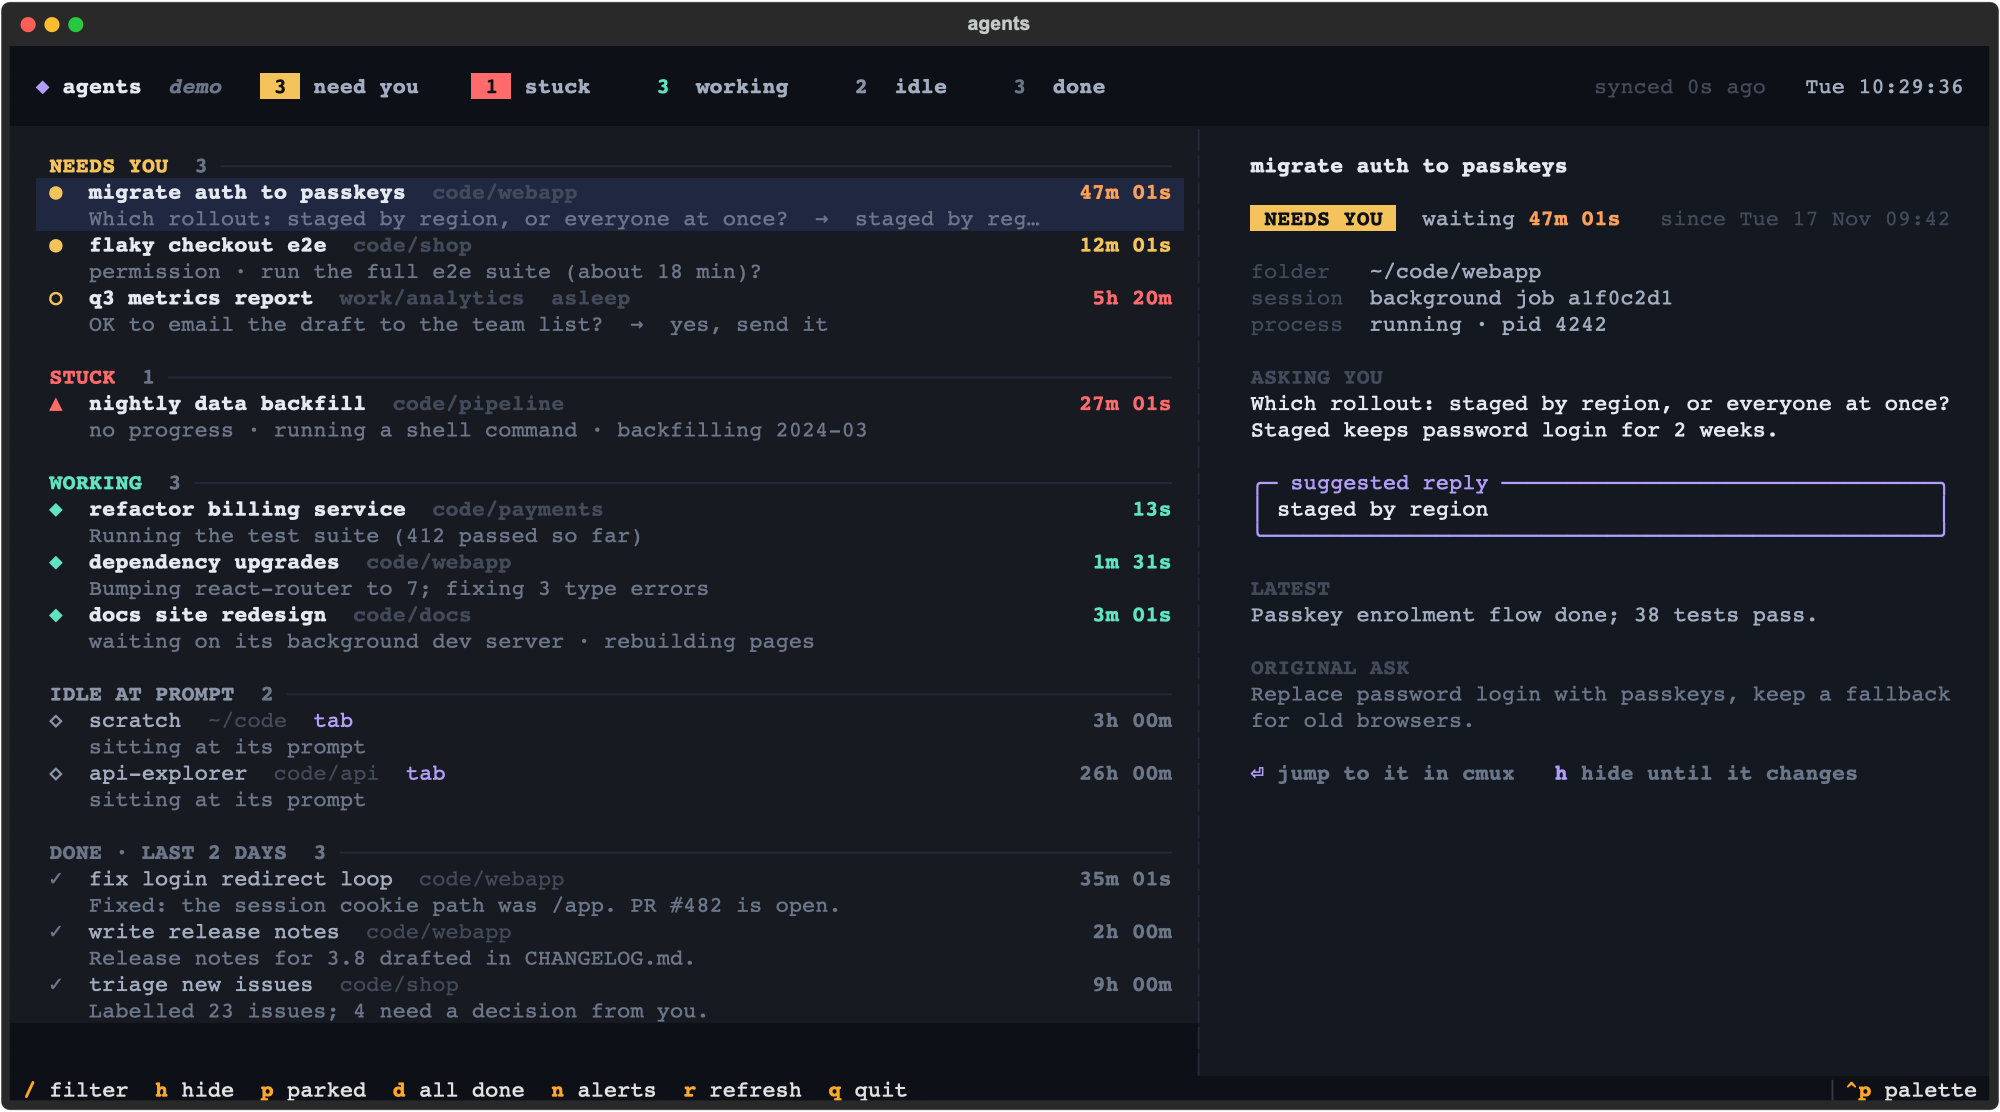
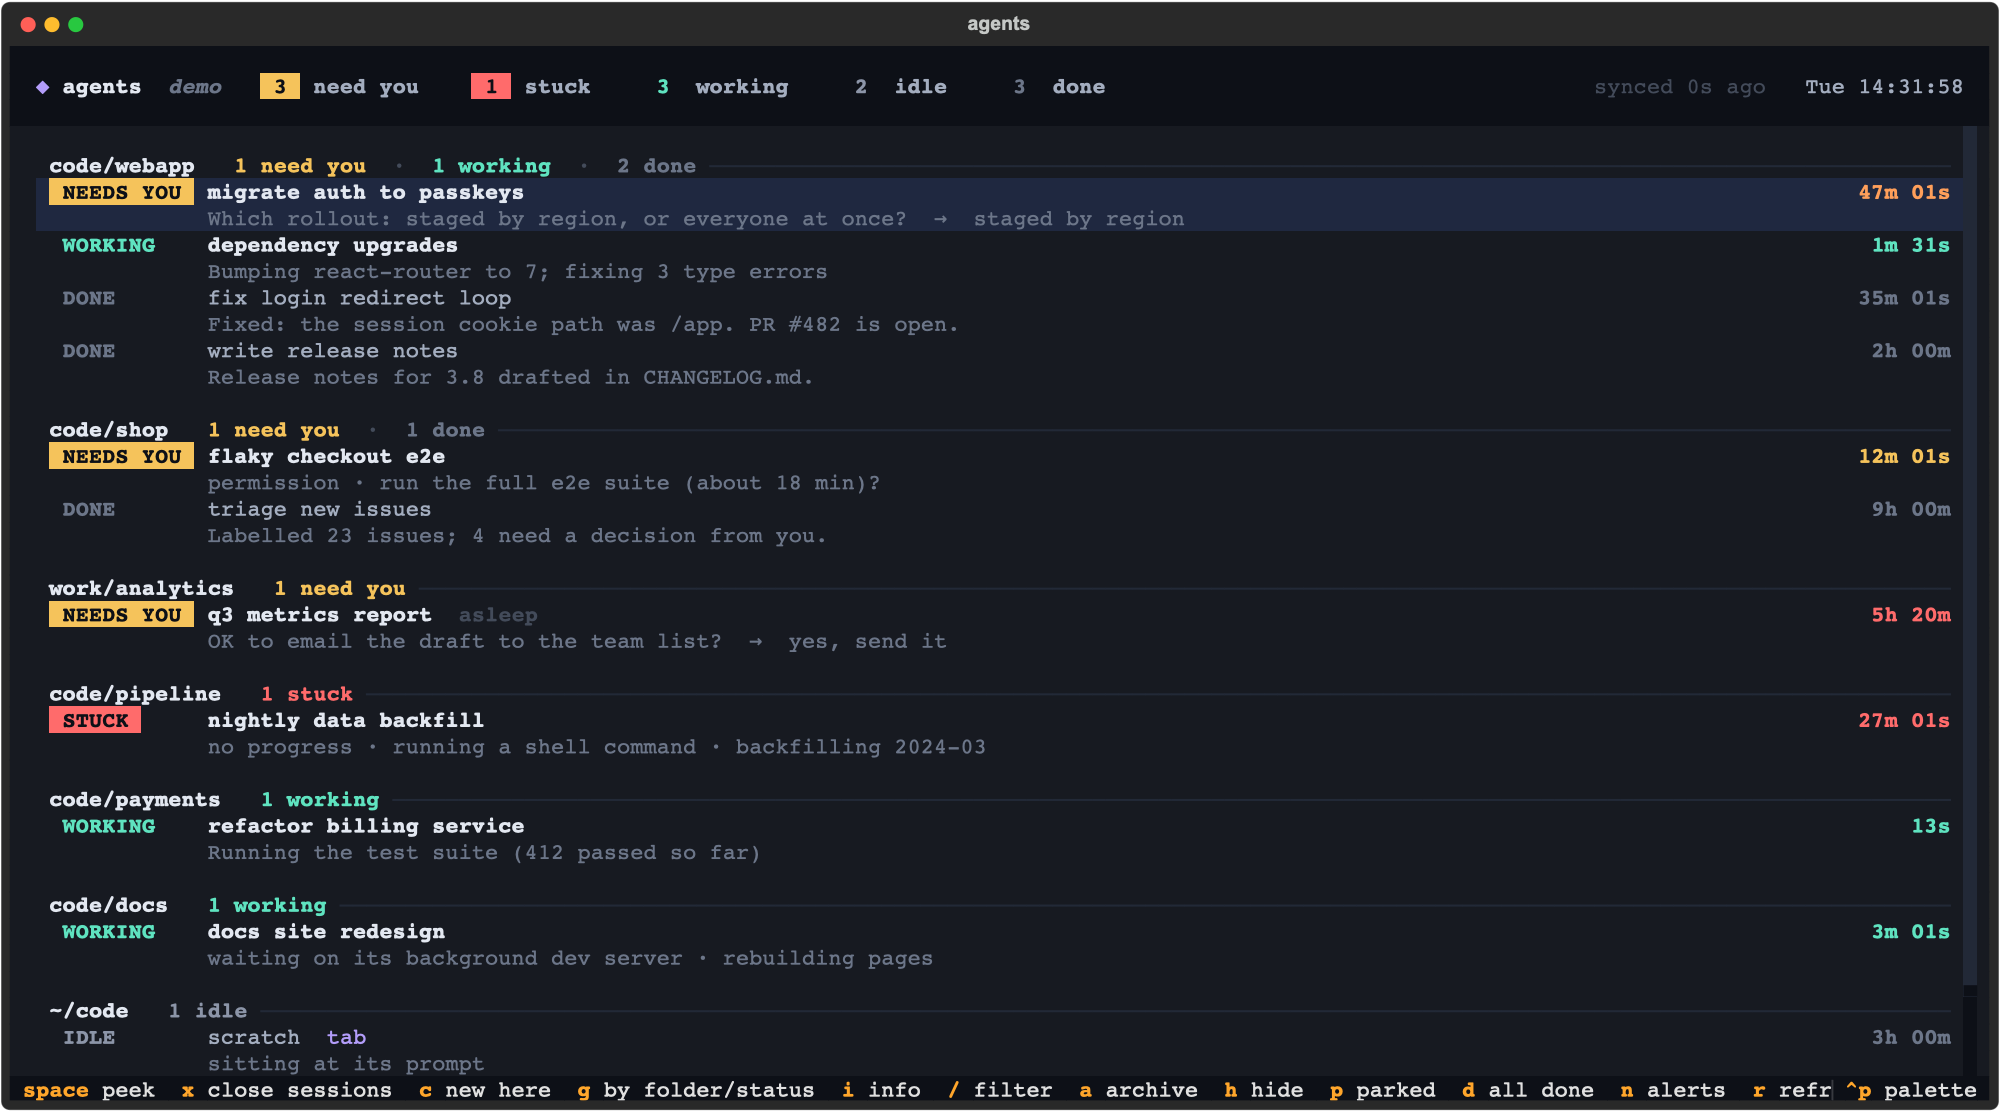
Show each session's state in words
A fixed-width status label on every row: NEEDS YOU, FAILED and STUCK as solid
blocks, WORKING, IDLE and DONE as coloured text. Folder headers spell their
counts out. README screenshot refreshed.

diff --git a/tui/board.py b/tui/board.py
@@ -316,6 +316,31 @@ def chip(label: str, color: str, *, solid: bool = True) -> Text:
     return t
 
 
+PILL_WIDTH = 11
+
+
+def status_pill(r: Row) -> Text:
+    """The row's state in words, in a fixed-width column. What needs you is a solid
+    block (needs you / failed / stuck); what doesn't is coloured text only."""
+    if r.group == "needs" and r.state == "failed":
+        label, color, solid = "FAILED", RED, True
+    elif r.group == "needs":
+        label, color, solid = "NEEDS YOU", AMBER, True
+    elif r.group == "stuck":
+        label, color, solid = "STUCK", RED, True
+    elif r.group == "working":
+        label, color, solid = "WORKING", TEAL, False
+    elif r.group == "idle":
+        label, color, solid = "IDLE", SLATE, False
+    elif r.group == "done":
+        label, color, solid = "DONE", DIM, False
+    else:
+        label, color, solid = "PARKED", FAINT, False
+    t = Text()
+    t.append(f" {label} ", style=f"bold {BG} on {color}" if solid else f"bold {color}")
+    return t
+
+
 # ── persisted per-viewer marks ─────────────────────────────────────────────
 def _marks(name: str) -> dict[str, float]:
     return _read_json(STATE / f"{name}.json")
@@ -807,12 +832,10 @@ class Board(App[None]):
         return self._row_prompt(r, now, show_folder=not self.by_folder)
 
     def _row_prompt(self, r: Row, now: float, show_folder: bool) -> Table:
-        g = GROUPS[r.group]
         ms = now - r.since
-        glyph = g["glyph"] if r.pid or r.group in ("done", "parked") else ("○" if r.group == "needs" else "△" if r.group == "stuck" else g["glyph"])
-        width = max(20, self.query_one("#list").size.width - 18)
+        width = max(20, self.query_one("#list").size.width - 18 - PILL_WIDTH)
         grid = Table.grid(expand=True, padding=(0, 1))
-        grid.add_column(width=2, no_wrap=True)
+        grid.add_column(width=PILL_WIDTH, no_wrap=True)
         grid.add_column(ratio=1, no_wrap=True, overflow="ellipsis")
         grid.add_column(width=9, justify="right", no_wrap=True)
         name = Text(r.name, style=f"bold {TEXT}" if r.group in ("needs", "stuck", "working") else SOFT)
@@ -822,7 +845,7 @@ class Board(App[None]):
             name.append("  tab", style=f"{ACCENT}")
         if not r.pid and r.group in ("needs", "stuck"):
             name.append("  asleep", style=FAINT)
-        grid.add_row(Text(glyph, style=f"bold {g['color']}"), name, Text(age(ms), style=f"bold {urgency(r, ms)}"))
+        grid.add_row(status_pill(r), name, Text(age(ms), style=f"bold {urgency(r, ms)}"))
         note = r.note
         if r.reply:
             note = f"{note}  →  {r.reply}"
@@ -844,10 +867,14 @@ class Board(App[None]):
         grid.add_column(no_wrap=True)
         grid.add_column(ratio=1)
         label = Text(short_folder(cwd) or "?", style=f"bold {TEXT}")
+        words = {"needs": "need you", "stuck": "stuck", "working": "working", "idle": "idle", "done": "done", "parked": "parked"}
+        first = True
         for g in ORDER:
             n = sum(1 for r in members if r.group == g)
             if n:
-                label.append(f"   {GROUPS[g]['glyph']} {n}", style=f"bold {GROUPS[g]['color']}")
+                label.append("   " if first else "  ·  ", style=FAINT)
+                label.append(f"{n} {words[g]}", style=f"bold {GROUPS[g]['color']}" if g in ("needs", "stuck", "working") else GROUPS[g]["color"])
+                first = False
         grid.add_row(label, Rule(style=LINE))
         return grid
 

diff --git a/README.md b/README.md
@@ -88,6 +88,10 @@ terminal bell and, in cmux, sends a cmux notification.
 
 Within Needs you and Stuck, running sessions come first, then the longest-waiting.
 
+Every row carries its state in words: **NEEDS YOU**, **FAILED** and **STUCK** as solid blocks (they
+want you), **WORKING**, **IDLE** and **DONE** as coloured text. Grouped by folder, each folder's
+header spells its counts out ("1 need you · 2 working · 7 done") and lists what needs you first.
+
 The timer turns amber, orange, then red the longer a session has waited.
 
 ## Requirements
